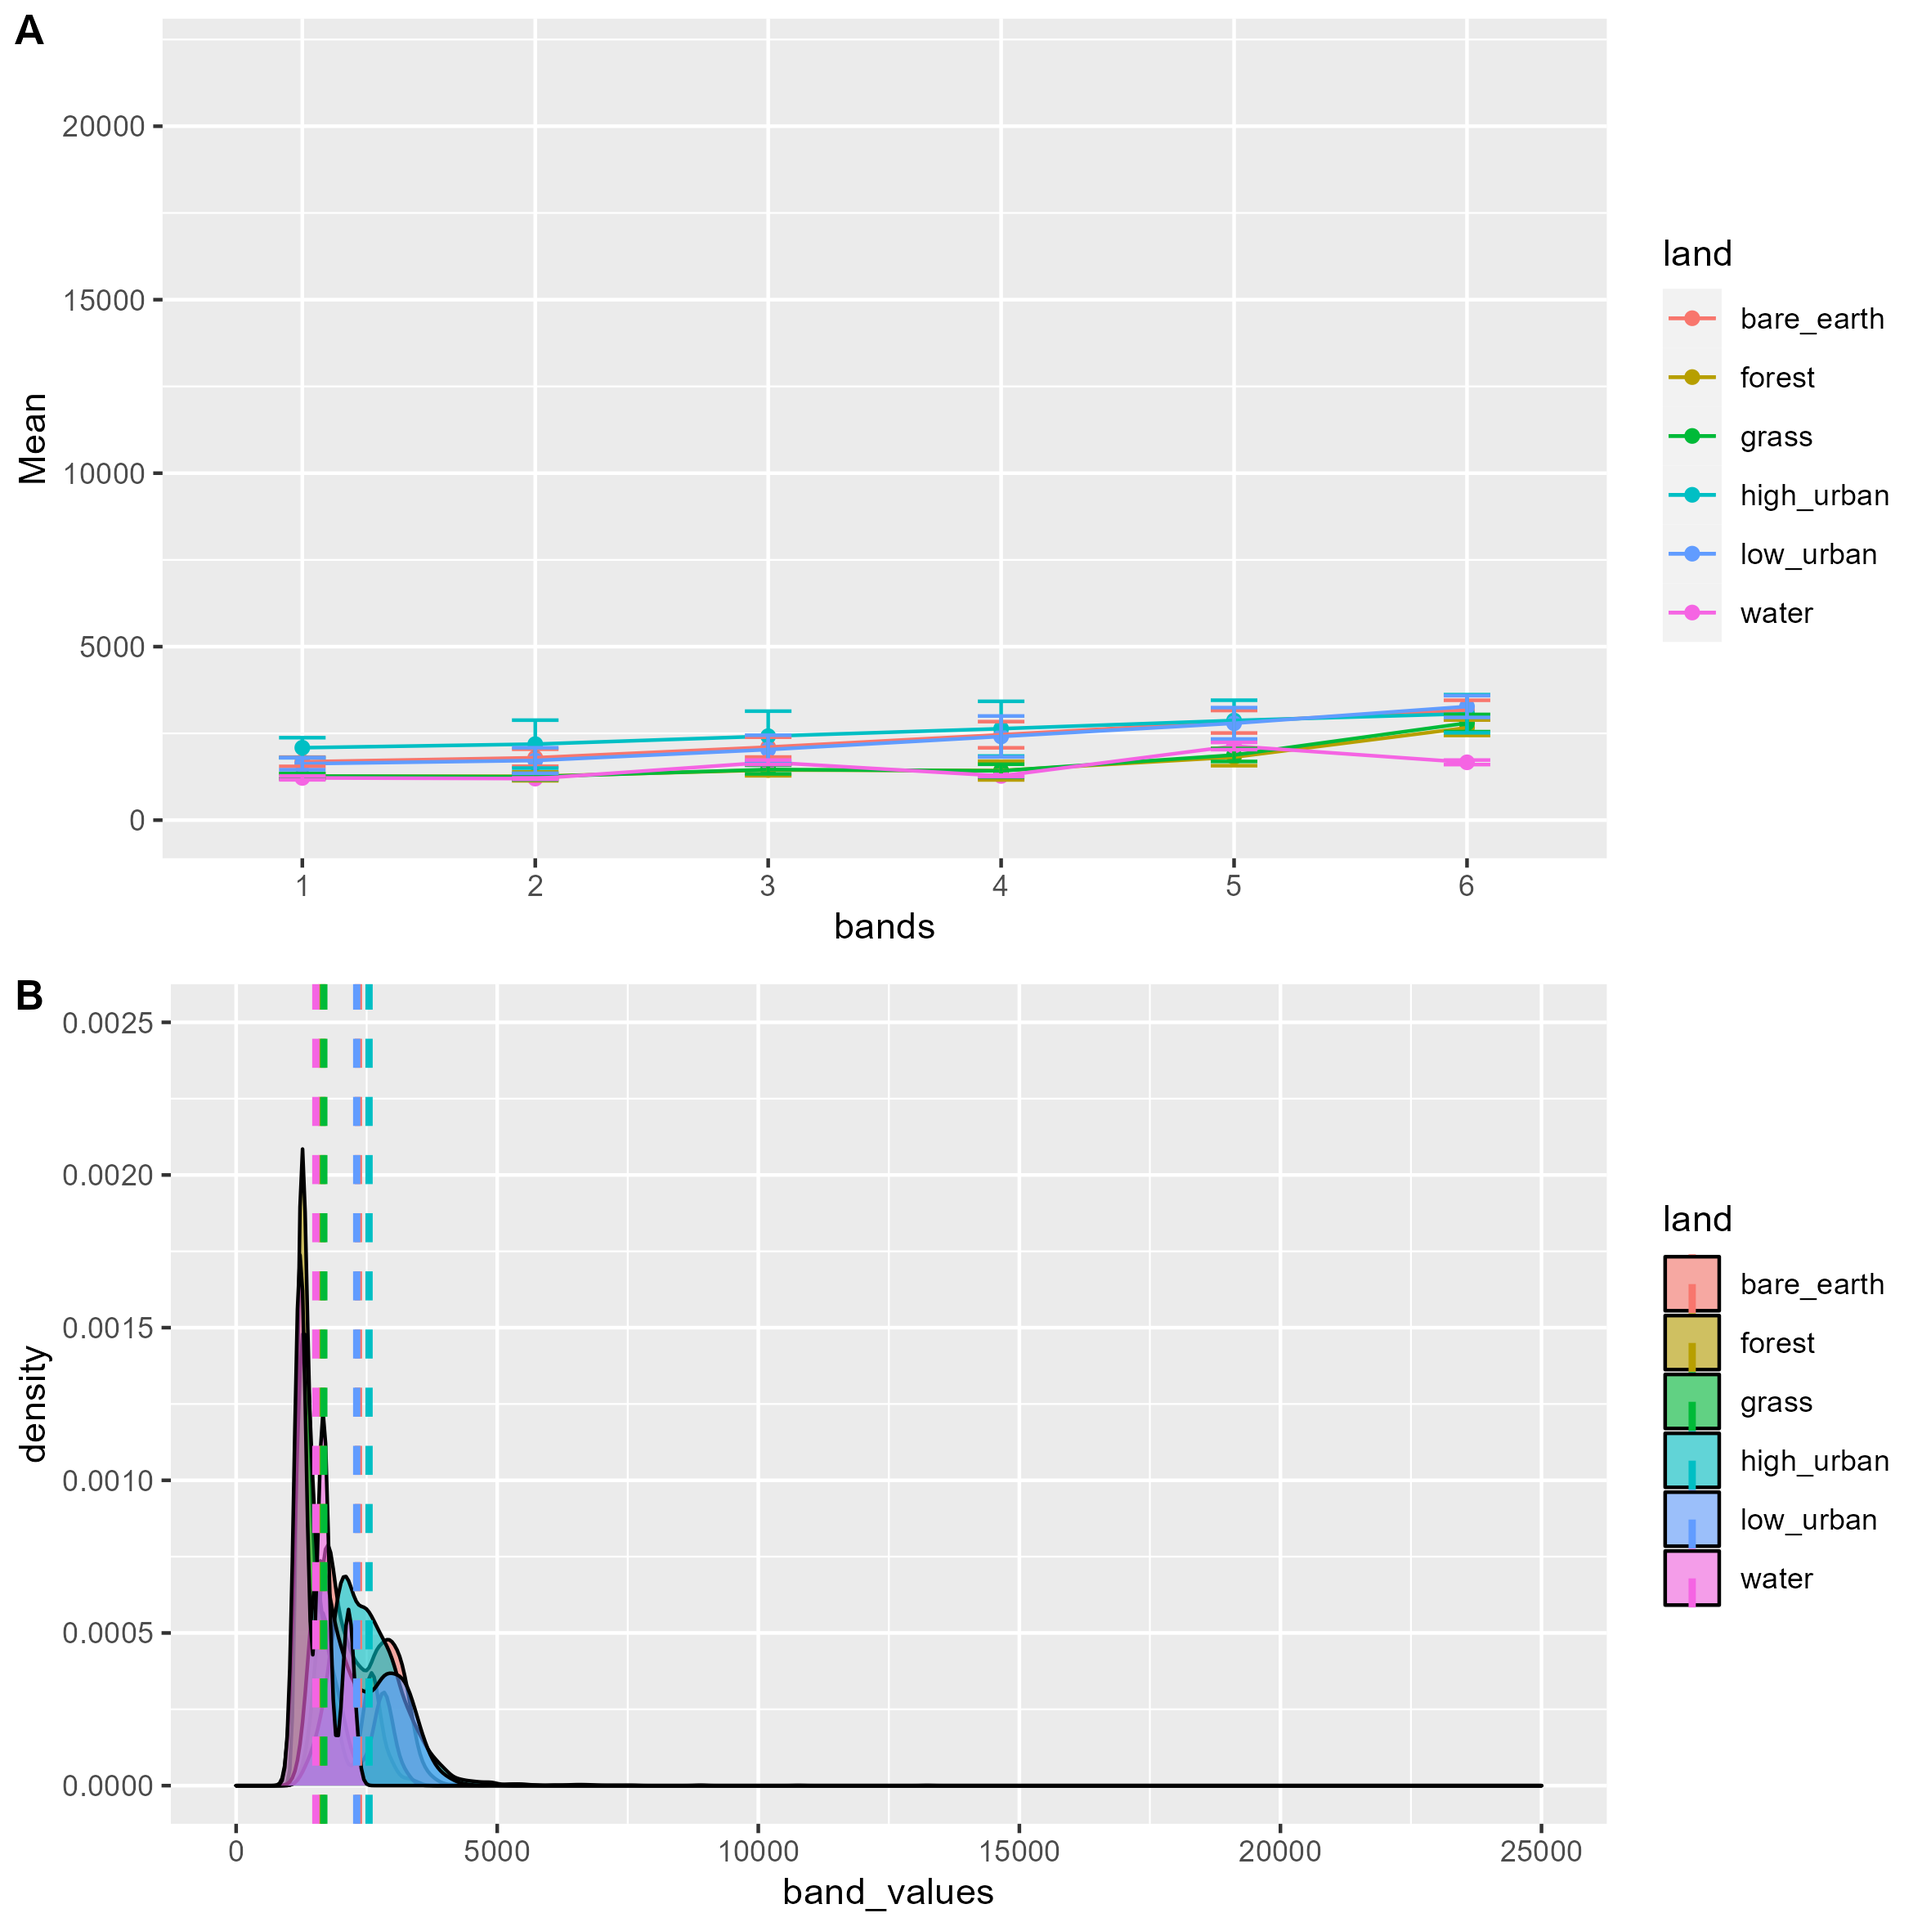
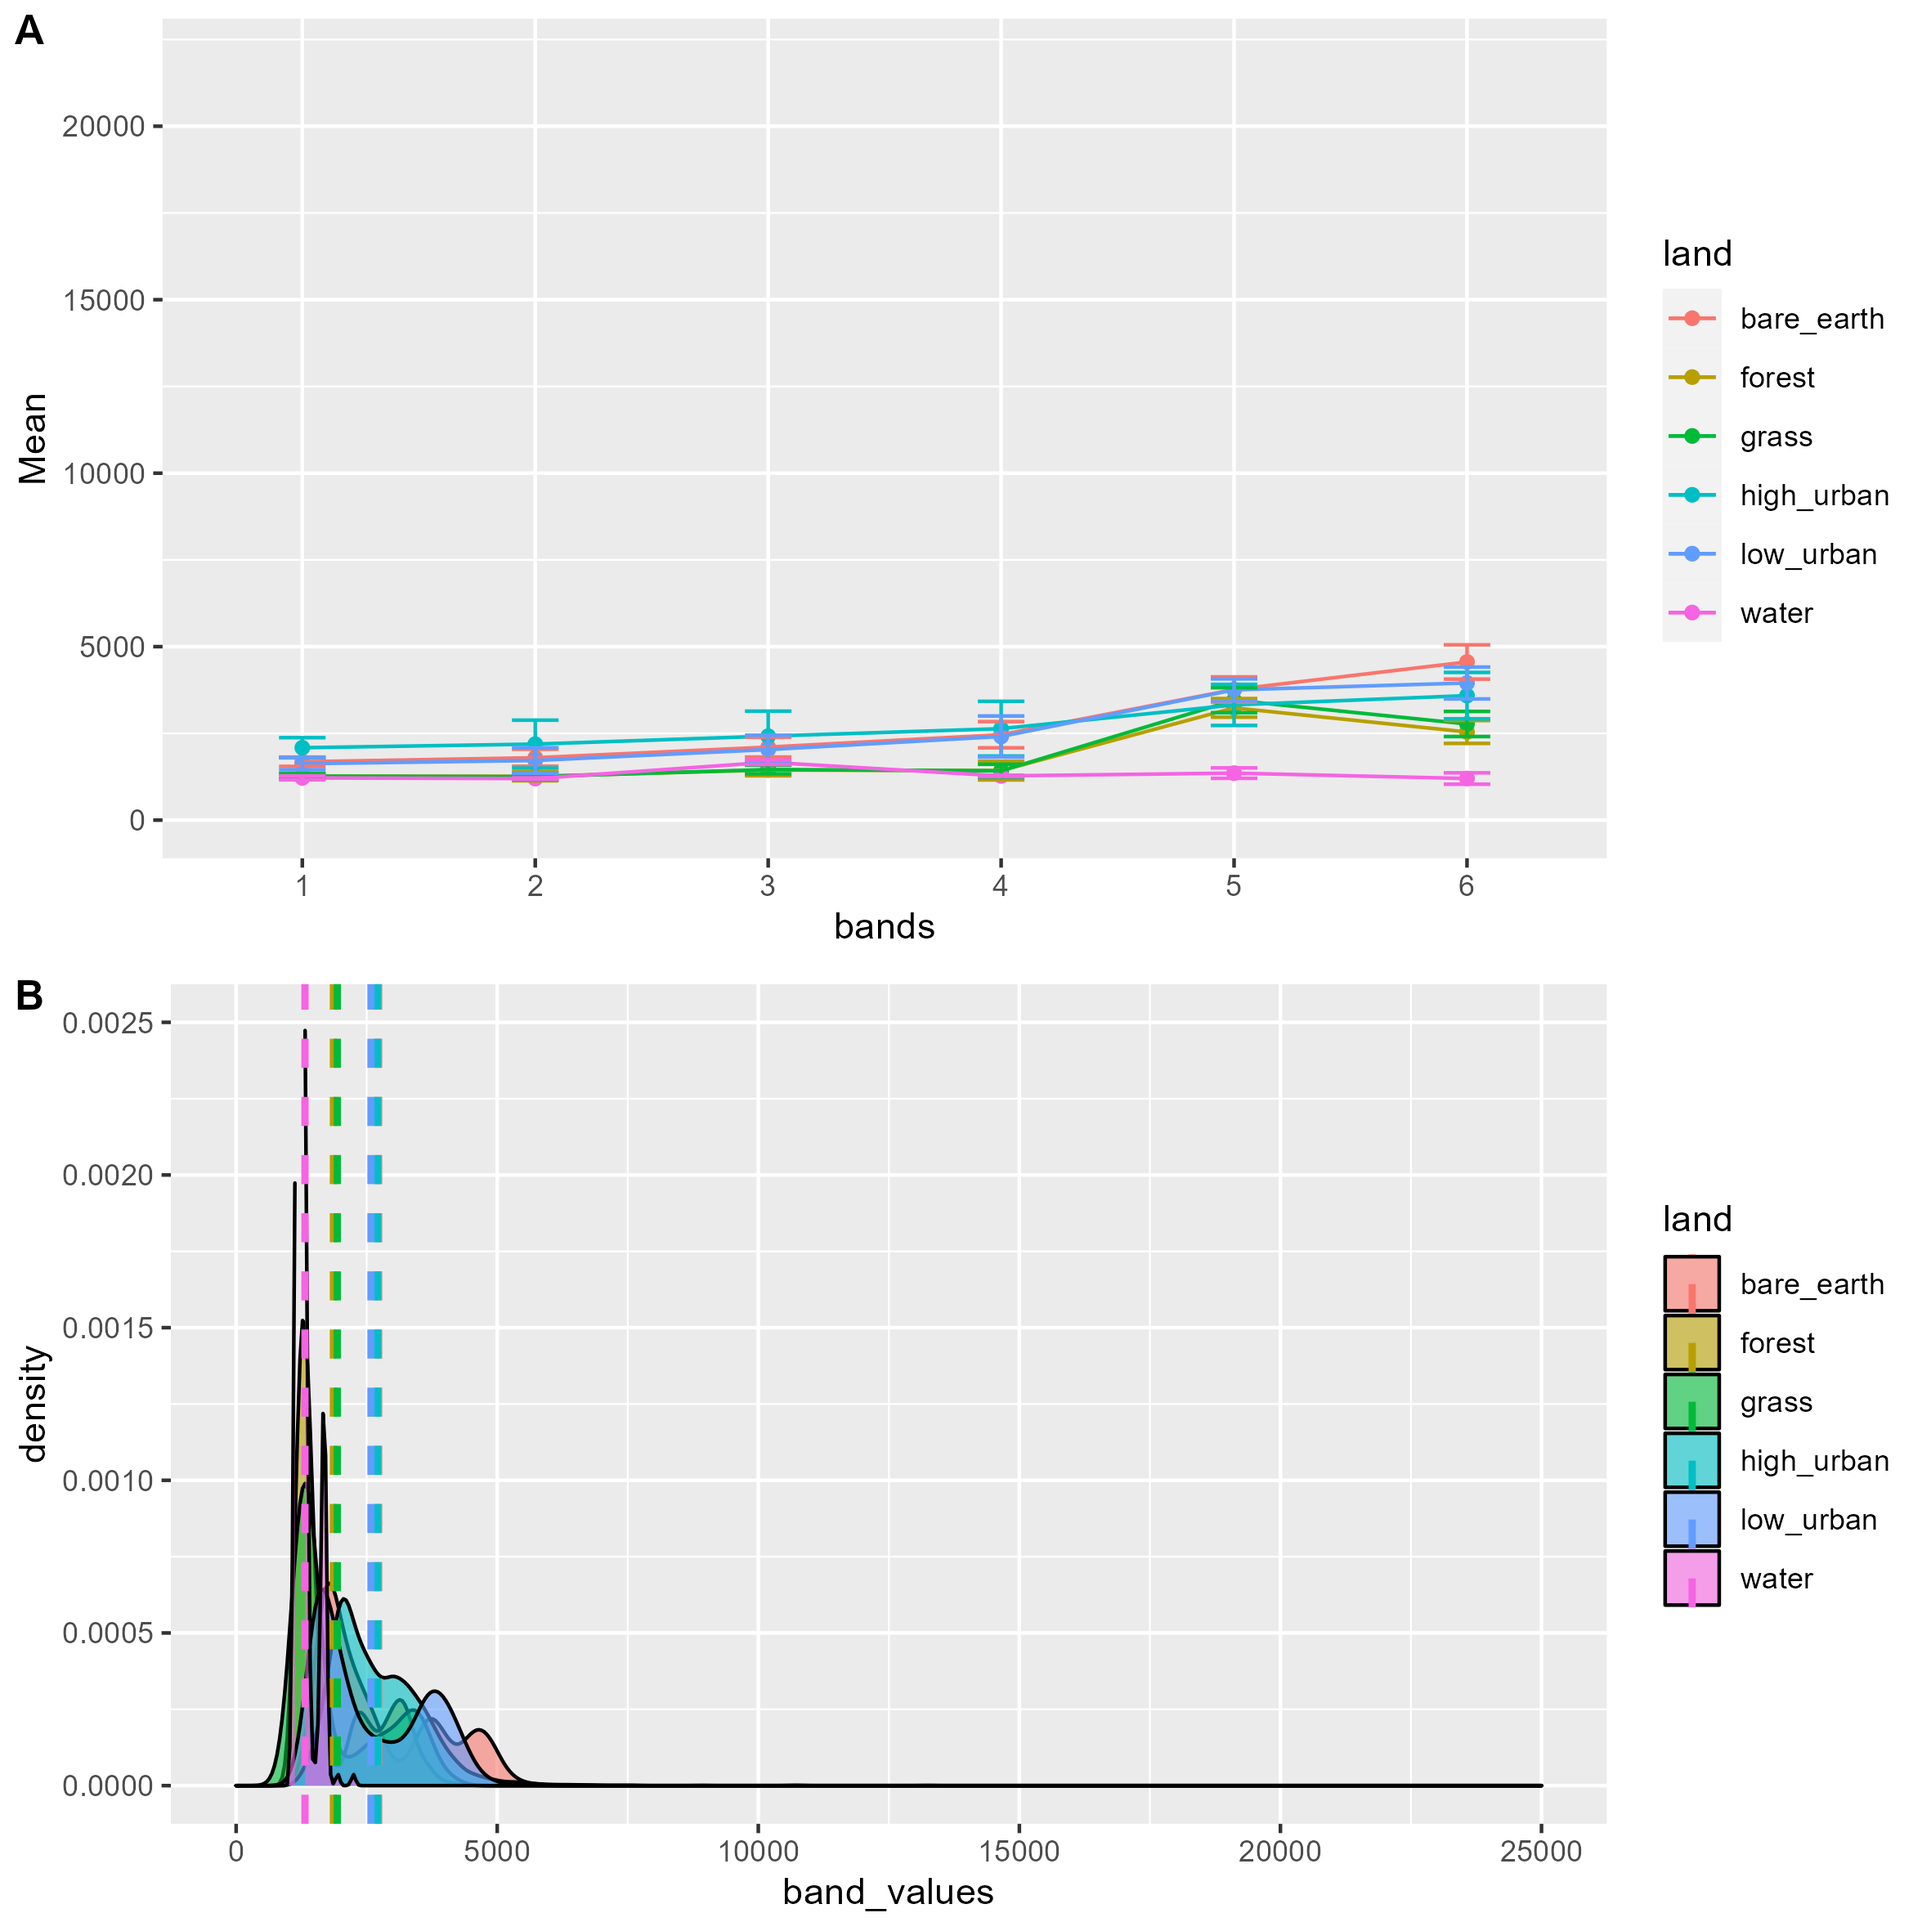
update

Changed region(s): [[0.1236, 0.4945, 0.2782, 0.9581], [0.5254, 0.34, 0.7727, 0.4327]]

diff --git a/docs/1_intro.html b/docs/1_intro.html
@@ -20,6 +20,25 @@ ul.task-list li input[type="checkbox"] {
   margin: 0 0.8em 0.2em -1.6em;
   vertical-align: middle;
 }
+div.csl-bib-body { }
+div.csl-entry {
+  clear: both;
+}
+.hanging div.csl-entry {
+  margin-left:2em;
+  text-indent:-2em;
+}
+div.csl-left-margin {
+  min-width:2em;
+  float:left;
+}
+div.csl-right-inline {
+  margin-left:2em;
+  padding-left:1em;
+}
+div.csl-indent {
+  margin-left: 2em;
+}
 </style>
 
 
@@ -272,8 +291,8 @@ ul.task-list li input[type="checkbox"] {
 <thead>
 <tr class="header">
 <th></th>
-<th><a href="https://scihub.copernicus.eu/dhus/#/home">Sentinel</a></th>
-<th><a href="https://earthexplorer.usgs.gov/">Landsat</a></th>
+<th><a href="https://scihub.copernicus.eu/dhus/#/home">Sentinel</a>-2</th>
+<th><a href="https://earthexplorer.usgs.gov/">Landsat</a> (<strong>8-9 Operational Land Imager (OLI) and Thermal Infrared Sensor (TIRS)</strong>)</th>
 </tr>
 </thead>
 <tbody>
@@ -288,8 +307,18 @@ ul.task-list li input[type="checkbox"] {
 <td>16 days</td>
 </tr>
 <tr class="odd">
+<td>Spectral resolution</td>
+<td>13 spectral bands</td>
+<td>9 spectral bands</td>
+</tr>
+<tr class="even">
 <td><a href="https://sentinels.copernicus.eu/web/sentinel/user-guides/sentinel-2-msi/resolutions/spatial">Central wavelength</a></td>
 <td>B1 443nm = Band 1 has central wavelength of 442 nm</td>
+<td></td>
+</tr>
+<tr class="odd">
+<td></td>
+<td></td>
 <td></td>
 </tr>
 <tr class="even">
@@ -435,8 +464,8 @@ ul.task-list li input[type="checkbox"] {
 <h5 data-number="1.1.3.3.3" class="anchored" data-anchor-id="landsat"><span class="header-section-number">1.1.3.3.3</span> Landsat</h5>
 <p>To mitigate the atmospheric effects (cloudy and foggy from April to May and rainy during summer) (and also due to data availability), the sensing time for Landsat is in December.</p>
 </section>
-<section id="compare-spectral-signatures" class="level5" data-number="1.1.3.3.4">
-<h5 data-number="1.1.3.3.4" class="anchored" data-anchor-id="compare-spectral-signatures"><span class="header-section-number">1.1.3.3.4</span> Compare spectral signatures</h5>
+<section id="compare-spectral-reflectance" class="level5" data-number="1.1.3.3.4">
+<h5 data-number="1.1.3.3.4" class="anchored" data-anchor-id="compare-spectral-reflectance"><span class="header-section-number">1.1.3.3.4</span> Compare spectral reflectance</h5>
 <div class="quarto-layout-panel">
 <div class="quarto-layout-row quarto-layout-valign-top">
 <div class="quarto-layout-cell" style="flex-basis: 50.0%;justify-content: center;">
@@ -462,6 +491,12 @@ ul.task-list li input[type="checkbox"] {
 <p>Then, t-test is conducted to test the difference in average of the land cover reflectance between two sensors.</p>
 <table class="table">
 <caption>Table 1. Welch two sample t-test (Sentinel and Landsat)</caption>
+<colgroup>
+<col style="width: 22%">
+<col style="width: 29%">
+<col style="width: 22%">
+<col style="width: 22%">
+</colgroup>
 <thead>
 <tr class="header">
 <th>landcover</th>
@@ -473,43 +508,50 @@ ul.task-list li input[type="checkbox"] {
 <tbody>
 <tr class="odd">
 <td>low_urban</td>
-<td>-136.65</td>
-<td>2024.3</td>
+<td>-129.55</td>
+<td>2224.5</td>
 <td>&lt; 2.2e-16</td>
 </tr>
 <tr class="even">
 <td>high_urban</td>
-<td>-299.51</td>
-<td>6706.5</td>
+<td>-289.79</td>
+<td>7115.3</td>
 <td>&lt; 2.2e-16</td>
 </tr>
 <tr class="odd">
 <td>bare_earth</td>
-<td>-238.64</td>
-<td>6347.2</td>
+<td>-223.36</td>
+<td>7141.2</td>
 <td>&lt; 2.2e-16</td>
 </tr>
 <tr class="even">
 <td>grass</td>
-<td>-76.054</td>
-<td>601.63</td>
+<td>-71.533</td>
+<td>674.71</td>
 <td>&lt; 2.2e-16</td>
 </tr>
 <tr class="odd">
 <td>forest</td>
-<td>-269.72</td>
-<td>7087.8</td>
+<td>-256.12</td>
+<td>7799.9</td>
 <td>&lt; 2.2e-16</td>
 </tr>
 <tr class="even">
 <td>water</td>
-<td>-157.95</td>
-<td>348.97</td>
+<td>-175.3</td>
+<td>270.91</td>
 <td>&lt; 2.2e-16</td>
 </tr>
 </tbody>
 </table>
 <p>Since p-values are all below 0.05, the difference in average reflectance of Landsat and of Sentinel data is statistically significant.</p>
+<div class="quarto-figure quarto-figure-center">
+<figure class="figure">
+<p><img src="image/Landsat.v.Sentinel-2.png" class="img-fluid figure-img"></p>
+<p></p><figcaption class="figure-caption">i) Landsat vs.&nbsp;Sentinel (NASA, 2015)</figcaption><p></p>
+</figure>
+</div>
+<p>Fig. i from <a href="https://landsat.gsfc.nasa.gov/wp-content/uploads/2015/06/Landsat.v.Sentinel-2.png">NASA</a> shows that spectral bands are similar between Landsat 8 and Sentinel-2, except TIRS. Hence, the comparison above is possible. However, the atmospheric transmission varies. Sentinel bands have higher atmospheric transmission rate (white areas) and relatively low reflectance across all land cover type. Conversely, most Landsat bands are in atmospheric windows (gery areas), which allow energy to pass through the atmosphere, thus resulting in higher reflectance.&nbsp;</p>
 </section>
 </section>
 <section id="qgis-vs.-snap" class="level4" data-number="1.1.3.4">
@@ -543,11 +585,22 @@ ul.task-list li input[type="checkbox"] {
 </section>
 <section id="application" class="level2" data-number="1.2">
 <h2 data-number="1.2" class="anchored" data-anchor-id="application"><span class="header-section-number">1.2</span> Application</h2>
+<p>One more question would be what possible factors contribute to the difference in mean reflectance analysed above and how to mitigate the difference. Apart from the atmospheric window discussed above, the temporal difference in the sensing date (19th November 2022 for Sentinel and 19th December 2022 for Landsat) might contribute to difference in atmospheric effects and in path radiance / noise from sky irradiance and radiance from surrounding areas. Hence, to increase data consistency and reduce reflectance difference for similar sensors, removing atmospheric effects and noise is needed this could be done through linear regression methods (e.g.&nbsp;to get surface reflectance for Sentinel using radiometric calibration method) (see Week 3). Moreover, Time-series-based Reflectance Adjustment (TRA) approach is developed to mitigate the drawbacks of fixed/global band transformation coefficients by considering difference in land cover type and locations <span class="citation" data-cites="shang2019a">(<a href="references.html#ref-shang2019a" role="doc-biblioref">Shang and Zhu 2019a</a>)</span>.</p>
+<p>(However, if just using one sensor for analysis, there would be no/less concerns on the consistency issue?)</p>
 </section>
 <section id="reflection" class="level2" data-number="1.3">
 <h2 data-number="1.3" class="anchored" data-anchor-id="reflection"><span class="header-section-number">1.3</span> Reflection</h2>
+<p>There are so many wrong decisions made when producing this analysis. And without solid understanding of concepts/theories, the practical is like a maze 👾. It would be more efficient to do the practical after fully understanding every concept and data (although it is also rewarding to discover and learn from mistakes..). For instance, when comparing the spectral reflectance of Landsat and Sentinel, i selected band 1 to 7 for both sensors at first. However, after reading the paper by Shang and Zhu <span class="citation" data-cites="shang2019">(<a href="references.html#ref-shang2019" role="doc-biblioref">2019b</a>)</span>, i realized the wavelengths ranges/band numbers are different for both sensors (e.g.&nbsp;NIR is band 5 in Landsat while 8A for Sentinel.) After modifying this mistake, the overall patterns do not change much, albeit slight difference in t-statistics.</p>
 
 
+<div id="refs" class="references csl-bib-body hanging-indent" role="doc-bibliography" style="display: none">
+<div id="ref-shang2019" class="csl-entry" role="doc-biblioentry">
+Shang, Rong, and Zhe Zhu. 2019b. <span>“Harmonizing Landsat 8 and Sentinel-2: A Time-Series-Based Reflectance Adjustment Approach.”</span> <em>Remote Sensing of Environment</em> 235 (December): 111439. <a href="https://doi.org/10.1016/j.rse.2019.111439">https://doi.org/10.1016/j.rse.2019.111439</a>.
+</div>
+<div id="ref-shang2019a" class="csl-entry" role="doc-biblioentry">
+———. 2019a. <span>“Harmonizing Landsat 8 and Sentinel-2: A Time-Series-Based Reflectance Adjustment Approach.”</span> <em>Remote Sensing of Environment</em> 235 (December): 111439. <a href="https://doi.org/10.1016/j.rse.2019.111439">https://doi.org/10.1016/j.rse.2019.111439</a>.
+</div>
+</div>
 </section>
 
 </main> <!-- /main -->

diff --git a/docs/references.html b/docs/references.html
@@ -179,9 +179,26 @@ div.csl-indent {
 </header>
 
 <div id="refs" class="references csl-bib-body hanging-indent" role="doc-bibliography">
+<div id="ref-huang2002" class="csl-entry" role="doc-biblioentry">
+Huang, Chengquan, John R. G. Townshend, Shunlin Liang, Satya N. V.
+Kalluri, and Ruth S. DeFries. 2002. <span>“Impact of Sensor’s Point
+Spread Function on Land Cover Characterization: Assessment and
+Deconvolution.”</span> <em>Remote Sensing of Environment</em> 80 (2):
+203–12. <a href="https://doi.org/10.1016/S0034-4257(01)00298-X">https://doi.org/10.1016/S0034-4257(01)00298-X</a>.
+</div>
 <div id="ref-jensen2015" class="csl-entry" role="doc-biblioentry">
 Jensen, John R. 2015. <em>Introductory Digital Image Processing</em>.
 4th ed. A Remote Sensing Perspective. Pearson Higher Education US.
+</div>
+<div id="ref-shang2019" class="csl-entry" role="doc-biblioentry">
+Shang, Rong, and Zhe Zhu. 2019a. <span>“Harmonizing Landsat 8 and
+Sentinel-2: A Time-Series-Based Reflectance Adjustment Approach.”</span>
+<em>Remote Sensing of Environment</em> 235 (December): 111439. <a href="https://doi.org/10.1016/j.rse.2019.111439">https://doi.org/10.1016/j.rse.2019.111439</a>.
+</div>
+<div id="ref-shang2019a" class="csl-entry" role="doc-biblioentry">
+———. 2019b. <span>“Harmonizing Landsat 8 and Sentinel-2: A
+Time-Series-Based Reflectance Adjustment Approach.”</span> <em>Remote
+Sensing of Environment</em> 235 (December): 111439. <a href="https://doi.org/10.1016/j.rse.2019.111439">https://doi.org/10.1016/j.rse.2019.111439</a>.
 </div>
 </div>
 
